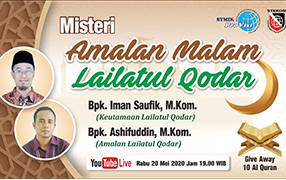
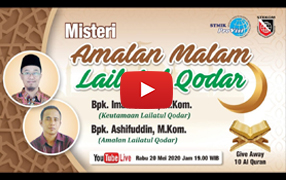
tambah paket santuy webinar dan revisi thumbnail

diff --git a/js/data.js b/js/data.js
@@ -78,13 +78,19 @@ var section={
                     "name":"Langsung Tayang",
                     "icon":"ion-android-bulb",
                     "price":"100K",
-                    "feature":[0,1]
+                    "feature":[0]
                 },
-                "gpr":{
-                    "name":"Gak Pake Ribet",
+                "ps":{
+                    "name":"Paket Santuy",
+                    "icon": "ion-android-contacts",
+                    "price": "150K",
+                    "feature": [0,1]
+                },
+                "gpl": {
+                    "name": "Gak Pake Ribet",
                     "icon": "ion-android-sunny",
                     "price": "300K",
-                    "feature": [0,1,2,3,4,5]
+                    "feature": [0, 1, 2, 3, 4, 5]
                 },
                 "smb":{
                     "name":"Sultan Mah Bebas",
@@ -95,16 +101,19 @@ var section={
             },
             "success":{
                 "webinar1":{
+                    "link":"https://www.youtube.com/watch?v=pE0uupql1_A",
                     "title":"Peluang Ekonomi Kreatif di Era Pandemi",
                     "thumbnail":"img/webinar/peluang_ekonomi_kreatif.jpg",
                     "description":"Berkolaborasi dengan STEKOM dalam webinar kali ini,tim GS sukses menyelenggarakan event dengan moderator dan pemberian e-certificate kepada para peserta dengan lancar.Dengan memberikan pelayanan yang prima dan profesional adalah kunci dari kinerja kami."
                 },
                 "webinar2": {
+                    "link": "https://www.youtube.com/watch?v=22iVJHIRS3M&t=1065s",
                     "title": "Misteri Amalan Malam Lailatul Qodar",
                     "thumbnail": "img/webinar/amalan_malam_lail.jpg",
                     "description": "Dengan pelayanan yang terintegrasi dengan platform youtube, peserta umum dapat tetap mengikuti webinar dengan mudah."
                 },
                 "webinar3": {
+                    "link": "https://www.youtube.com/watch?feature=youtu.be&v=Y4DGLc11gsc",
                     "title": "Fast & Easy way Create Content Like a Pro",
                     "thumbnail": "img/webinar/content_creator.jpg",
                     "description": "Kolaborasi dengan motivator Klara S Widodo dalam pembuatan konten yang berkualitas dengan mudah."

diff --git a/js/setting.js b/js/setting.js
@@ -172,8 +172,10 @@ function make_webinar_success(selector){
     <img class="img-fluid d-lg-none d-sm-block" src="`+section.webinar.content.success[el].thumbnail+`">
 
     <div class="media">
+    <a href="`+ section.webinar.content.success[el].link +`" target="_blank">
     <img class="align-self-center mr-3 d-none d-lg-block d-sm-none" src="`+ section.webinar.content.success[el].thumbnail +`"
     alt="Generic placeholder image">
+    </a>
     <div class="media-body">
     <h5 class="mt-0">`+ section.webinar.content.success[el].title +`</h5>
     <p>`+ section.webinar.content.success[el].description +`</p>
